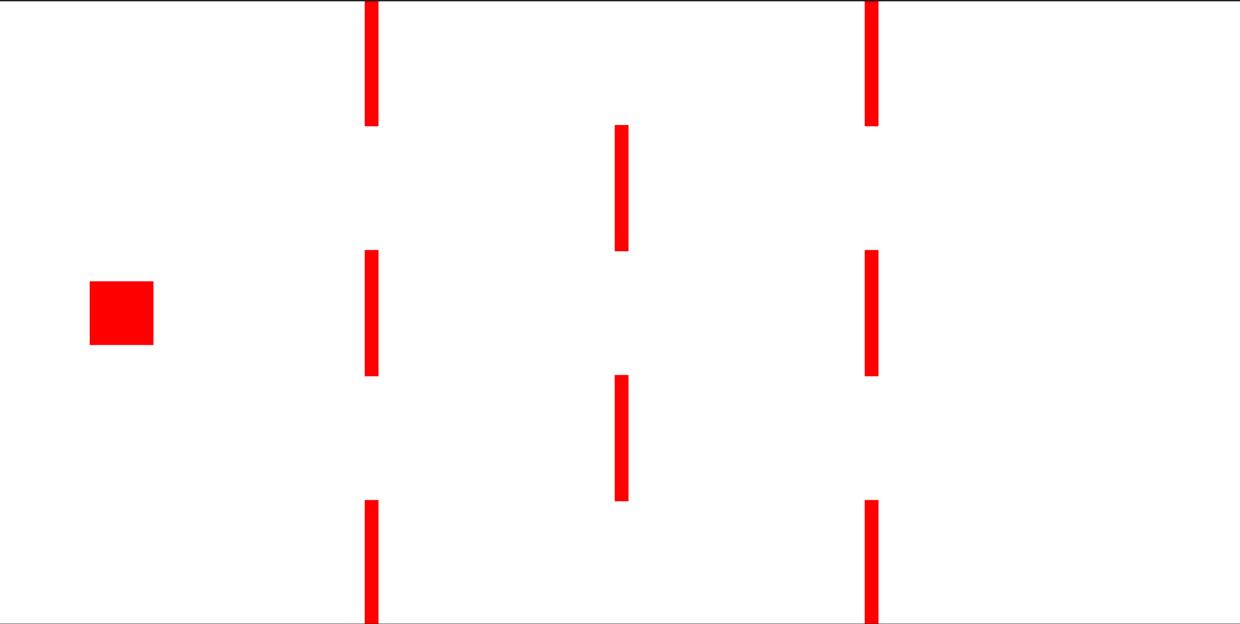
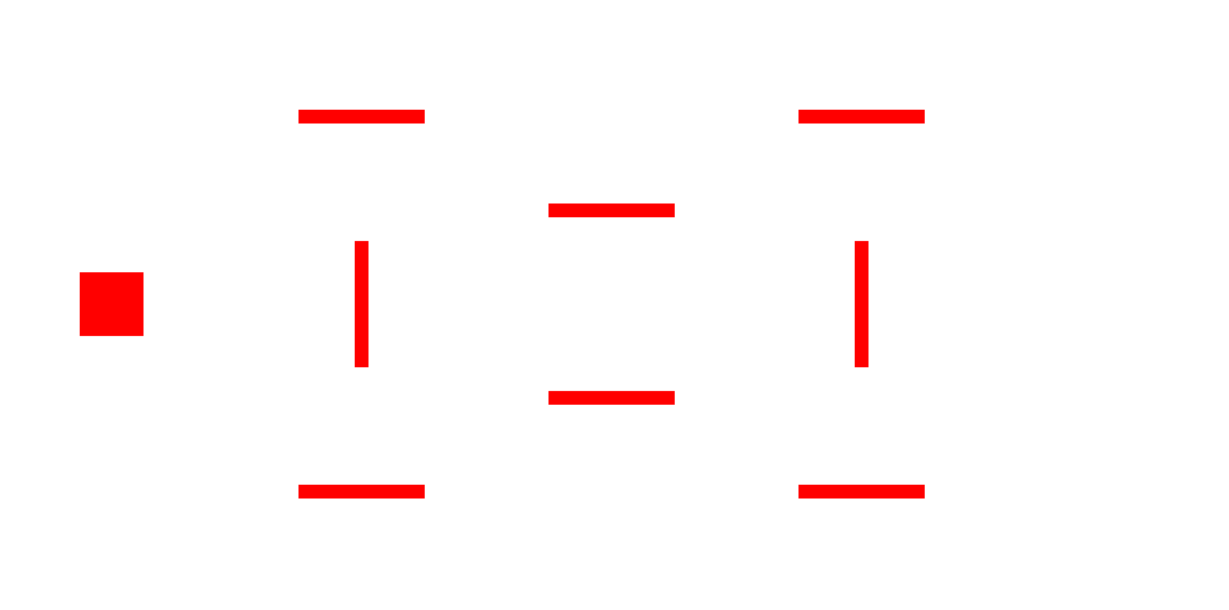
fixed level2 picture for pause screen

diff --git a/demo/level_tester.c b/demo/level_tester.c
@@ -264,7 +264,7 @@ void on_key_press(char key, key_event_type_t type, double held_time,
 int main(int argc, char *argv[]) {
     sdl_init(BOTTOM_LEFT_COORD, TOP_RIGHT_COORD);
     scene_t *scene = scene_init();
-    level_3(TOP_RIGHT_COORD, LEVEL_1_WALL_LENGTH, LEVEL_1_WALL_HEIGHT, scene);
+    level_2_horizontals(TOP_RIGHT_COORD, LEVEL_1_WALL_LENGTH, LEVEL_1_WALL_HEIGHT, scene);
     sdl_on_key((key_handler_t)on_key_press);
 
     bool *multi = malloc(sizeof(bool));
@@ -277,9 +277,8 @@ int main(int argc, char *argv[]) {
     while (!sdl_is_done(scene, scene_get_body(scene, 0), NULL, NULL, NULL, multi, NULL, NULL, NULL)) {
         double dt = time_since_last_tick();
         side_boundary(scene, TOP_RIGHT_COORD, BOTTOM_LEFT_COORD, 25.0);
-        wall_boundary(scene);
         sdl_render_scene(scene);
-        level_1_images(TOP_RIGHT_COORD, LEVEL_1_WALL_LENGTH, LEVEL_1_WALL_HEIGHT, wall);
+        //level_1_images(TOP_RIGHT_COORD, LEVEL_1_WALL_LENGTH, LEVEL_1_WALL_HEIGHT, wall);
         sdl_show();
         scene_tick(scene, dt);
     }
